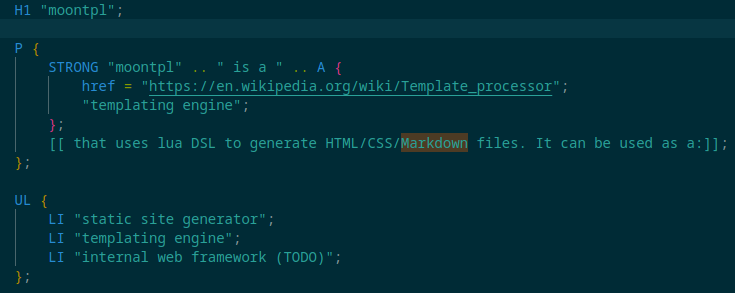
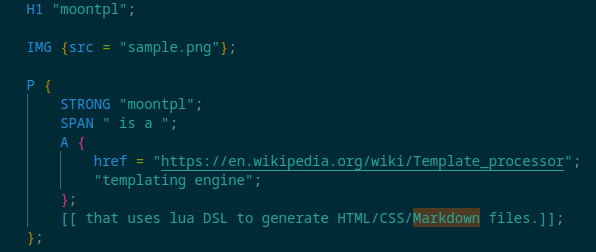
Fix spacing

diff --git a/README.md b/README.md
@@ -2,17 +2,13 @@
 
 ![](sample.png)
 
-
-
 **moontpl** is a [templating engine](https://en.wikipedia.org/wiki/Template_processor) that uses lua DSL to generate HTML/CSS/Markdown files.
 
 -----------------
 
 ## Rationale / motivations (AKA But why?)
 
-Long-story-short, I like lua's 
-
-*everything is tables* syntax and philosophy. I personally find it tedious to write HTML by hand, and find it even more laborious to read. HTML is also just a markup language, so it's almost always used as a compilation target for anything beyond the simple use cases.
+Long-story-short, I like lua's *everything is tables* syntax and philosophy. I personally find it tedious to write HTML by hand, and find it even more laborious to read. HTML is also just a markup language, so it's almost always used as a compilation target for anything beyond the simple use cases.
 
 This is where lua and my weird DSL comes in. Lua uses a uniform syntax for arrays and dictionaries. This allows me to express tree-based structures more expressively, and in particular, write HTML code more succintly.
 
@@ -79,6 +75,10 @@ moontpl run mysite/index.html.lua
 # All .html.lua are rendered into .html
 # all other files are copied into the output.
 moontpl build mysite/ output/
+
+# Open local web server at http://localhost:9876,
+# only use for local development, not for production use.
+moontpl serve mysite
 ```
 
 #### 3. More examples
@@ -86,8 +86,8 @@ moontpl build mysite/ output/
 You can find more example from the examples repository: (TODO)
 
 ```bash
-$ git clone github.com/nvlled/moontpl-examples
-$ moontpl
+$ git clone github.com/nvlled/moontpl
+$ cd moontpl/examples
 ```
 
 #### 4. Next steps
